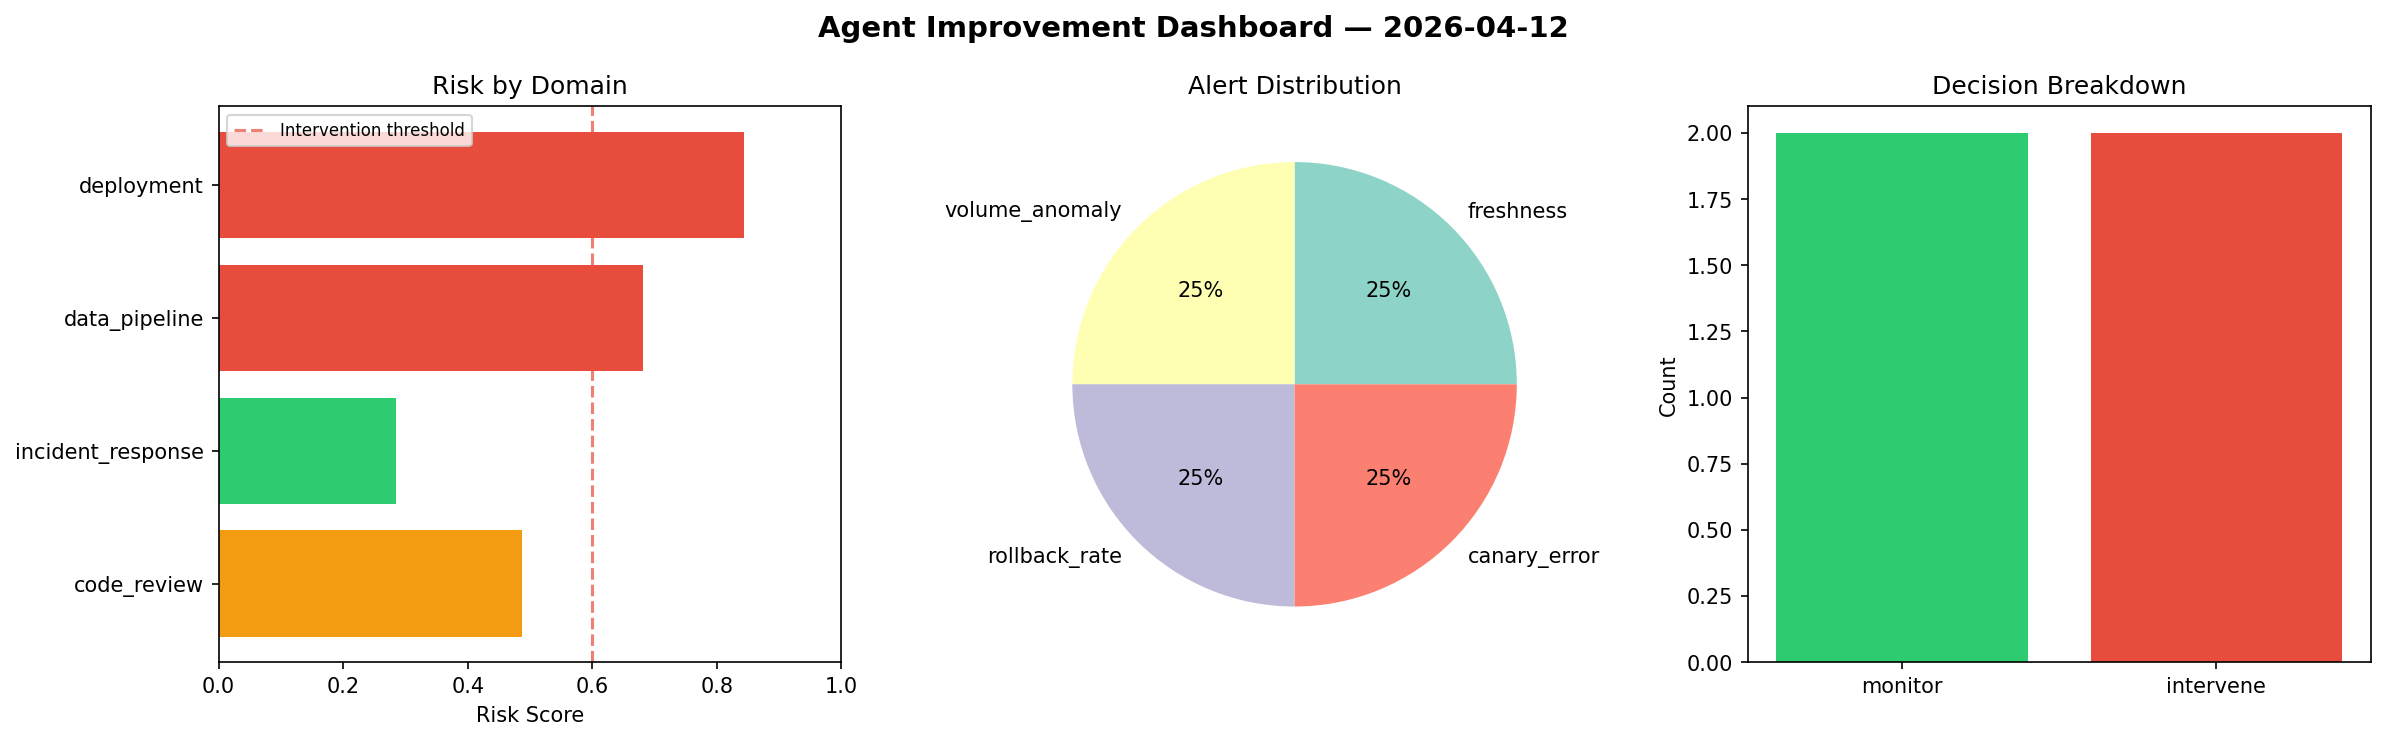
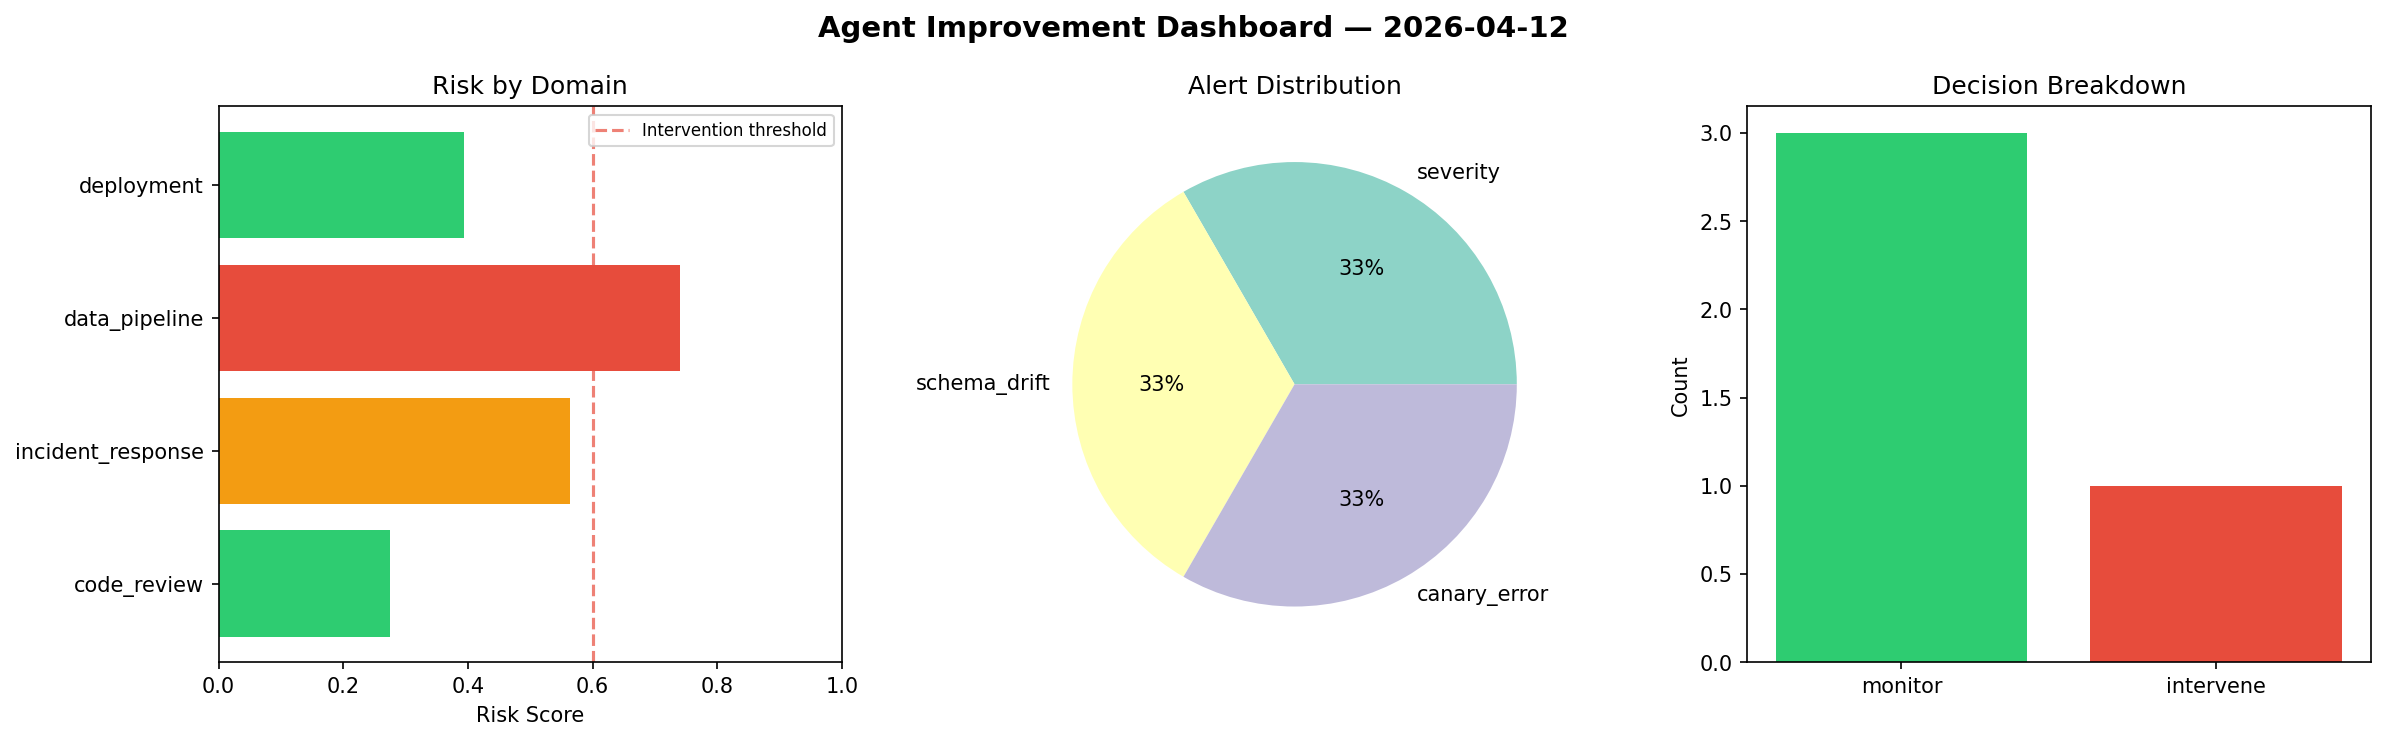
agent-improvement: daily cycle 2026-04-12T20:52

diff --git a/logs/2026-04-12.md b/logs/2026-04-12.md
@@ -1,6 +1,6 @@
 # Agent Improvement Report — 2026-04-12
 
-**Cycle ID:** `22c97df8` | **Avg Risk:** 0.5741 | **Interventions:** 2/4
+**Cycle ID:** `dd767304` | **Avg Risk:** 0.4933 | **Interventions:** 1/4
 
 ![Dashboard](2026-04-12_dashboard.png)
 
@@ -10,18 +10,18 @@
 
 | Domain | Risk Score | Decision | Alerts |
 |--------|-----------|----------|--------|
-| code_review | 0.4866 | monitor | none |
-| incident_response | 0.285 | monitor | none |
-| data_pipeline | 0.6812 | intervene | freshness, volume_anomaly |
-| deployment | 0.8436 | intervene | rollback_rate, canary_error |
+| code_review | 0.2747 | monitor | none |
+| incident_response | 0.5644 | monitor | severity |
+| data_pipeline | 0.741 | intervene | schema_drift |
+| deployment | 0.3932 | monitor | canary_error |
 
 ## Delta vs Yesterday
 
 | Domain | Today | Yesterday | Change |
 |--------|-------|-----------|--------|
-| code_review | 0.4866 | 0.7976 | 📉 -39.0% |
-| incident_response | 0.285 | 0.3569 | 📉 -20.1% |
-| data_pipeline | 0.6812 | 0.3915 | 📈 74.0% |
-| deployment | 0.8436 | 0.5055 | 📈 66.9% |
+| code_review | 0.2747 | 0.7976 | 📉 -65.6% |
+| incident_response | 0.5644 | 0.3569 | 📈 58.1% |
+| data_pipeline | 0.741 | 0.3915 | 📈 89.3% |
+| deployment | 0.3932 | 0.5055 | 📉 -22.2% |
 
 **Refinement:** `{'adjustment': 'tighten_thresholds', 'trend': 'degrading', 'window': 4}`
